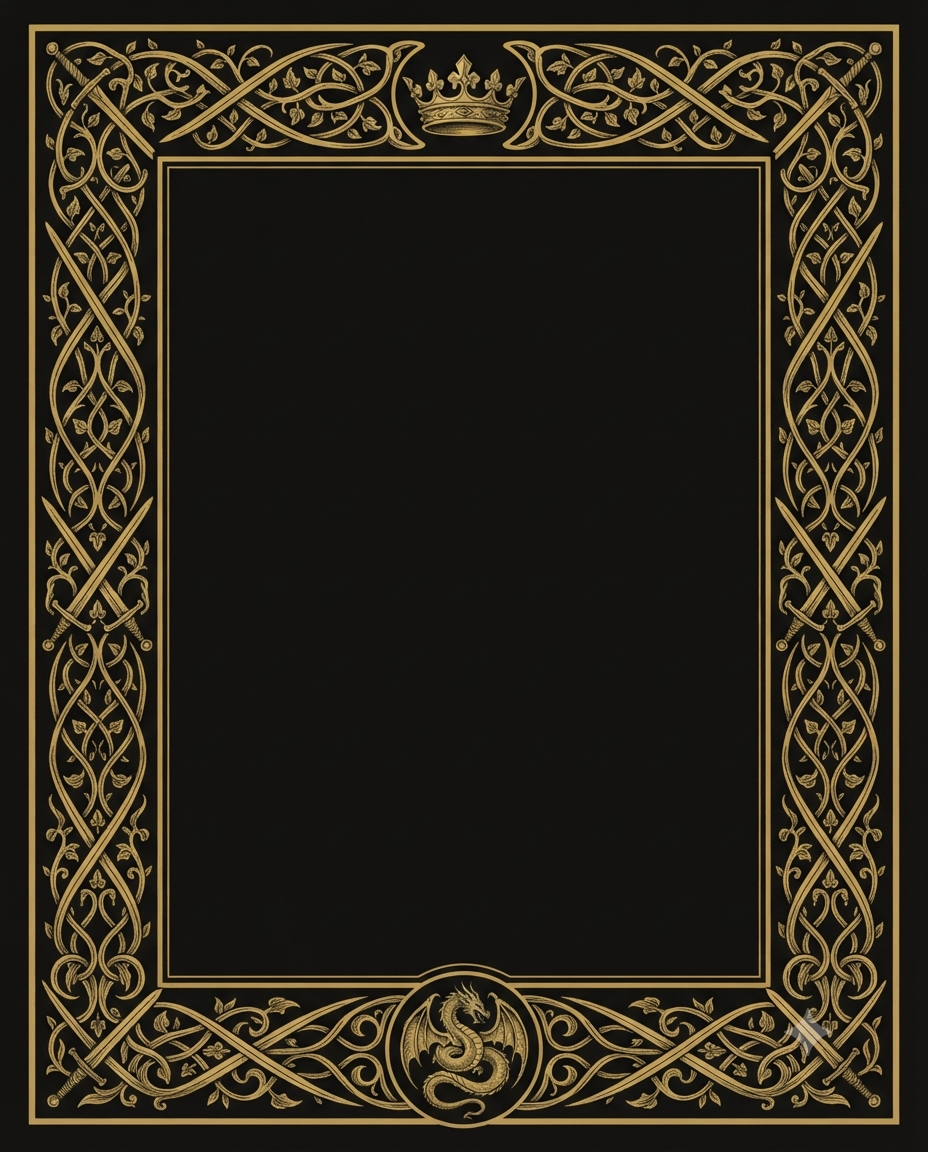
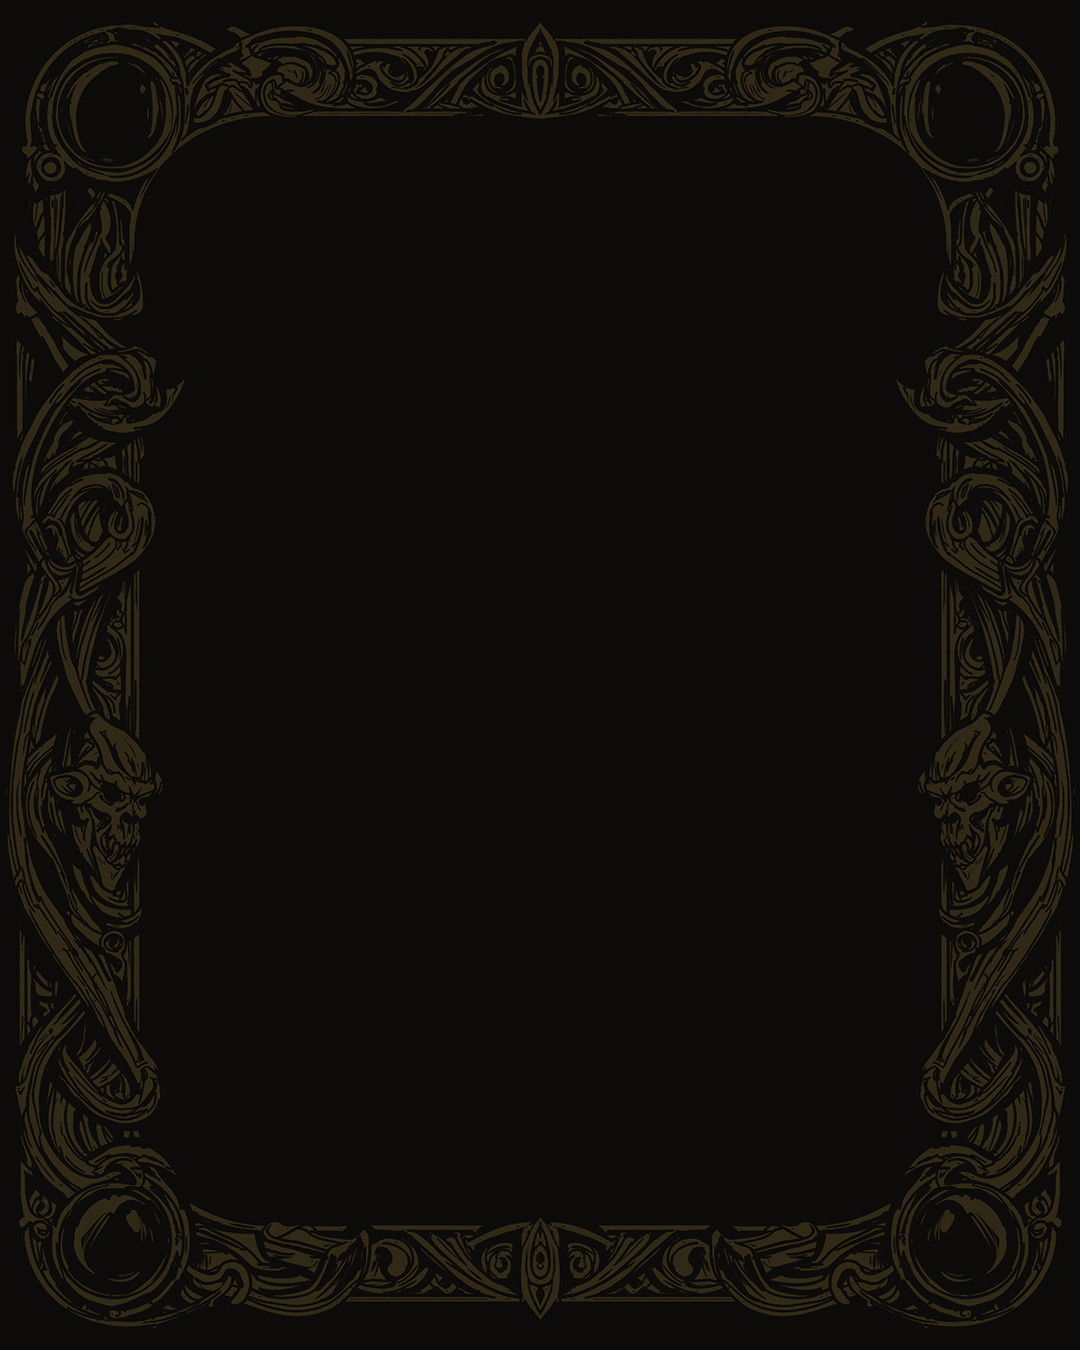
Changes to share cards

Changed region(s): [[0.0, 0.0, 1.0, 1.0]]

diff --git a/src/lib/genreCards.js b/src/lib/genreCards.js
@@ -72,6 +72,7 @@ export const GENRE_CARD_META = {
   "Fantasy Romance": { slug: "romance", sub: "Romance and magic intertwined, neither diminishing the other." },
   "Feminist & Sapphic Gothic": { slug: "gothic", sub: "The feminine gaze turned inward and outward on a world that haunts women in particular ways." },
   "Feminist Fiction": { slug: "society", sub: "Written with the assumption that women are the subject." },
+  "Feminist Gothic": { slug: "gothic", sub: "The house was never neutral." },
   "Feminist Theory": { slug: "ideas", sub: "The argument, not the story." },
   "First Contact": { slug: "scifi", sub: "Something answered." },
   "Flintlock Fantasy": { slug: "fantasy", sub: "Muskets, revolutions, and magic that has not read the manual." },
@@ -141,6 +142,7 @@ export const GENRE_CARD_META = {
   "Romance": { slug: "romance", sub: "Love at the center of the plot, and the promise of an ending that earns it." },
   "Russian Literature": { slug: "place", sub: "The soul examined at length, and in terrible weather." },
   "Sapphic Fantasy": { slug: "fantasy", sub: "Queer women at the center of invented worlds — the romance, the magic, and the stakes all treated as equally real." },
+  "Sapphic Gothic": { slug: "gothic", sub: "Desire that the house also wants to keep secret." },
   "Satire": { slug: "comedy", sub: "A joke with a target." },
   "Scandinavian Horror": { slug: "horror", sub: "Long dark, deep forest, small town." },
   "Science Fiction": { slug: "scifi", sub: "The future, argued rather than assumed." },
@@ -167,6 +169,7 @@ export const GENRE_CARD_META = {
   "Thriller": { slug: "crime", sub: "The clock is running and it is not on your side." },
   "Time Travel": { slug: "scifi", sub: "The same moment, approached from the wrong direction." },
   "Tragedy": { slug: "verse", sub: "The ending was in the character all along." },
+  "unknown": { slug: "generic", sub: "The shelf for books that arrived without a clear address." },
   "Urban Fantasy": { slug: "fantasy", sub: "Wards on the fire escape, something old in the subway." },
   "Vampires": { slug: "horror", sub: "The blood-drinker across centuries — from Varney and Carmilla to Rice's chronicles." },
   "Victorian Fiction": { slug: "place", sub: "Three volumes, and a great deal left unsaid." },

diff --git a/src/lib/cardBoxes.js b/src/lib/cardBoxes.js
@@ -6,7 +6,7 @@ export const CARD_BOXES = {
   "adventure": { x: 286, y: 213, w: 506, h: 853 },
   "comedy": { x: 265, y: 270, w: 550, h: 810 },
   "crime": { x: 285, y: 245, w: 509, h: 750 },
-  "fantasy": { x: 299, y: 241, w: 482, h: 786 },
+  "fantasy": { x: 291, y: 256, w: 485, h: 782 },
   "generic": { x: 330, y: 305, w: 418, h: 677 },
   "gothic": { x: 291, y: 256, w: 485, h: 782 },
   "horror": { x: 287, y: 221, w: 507, h: 795 },
